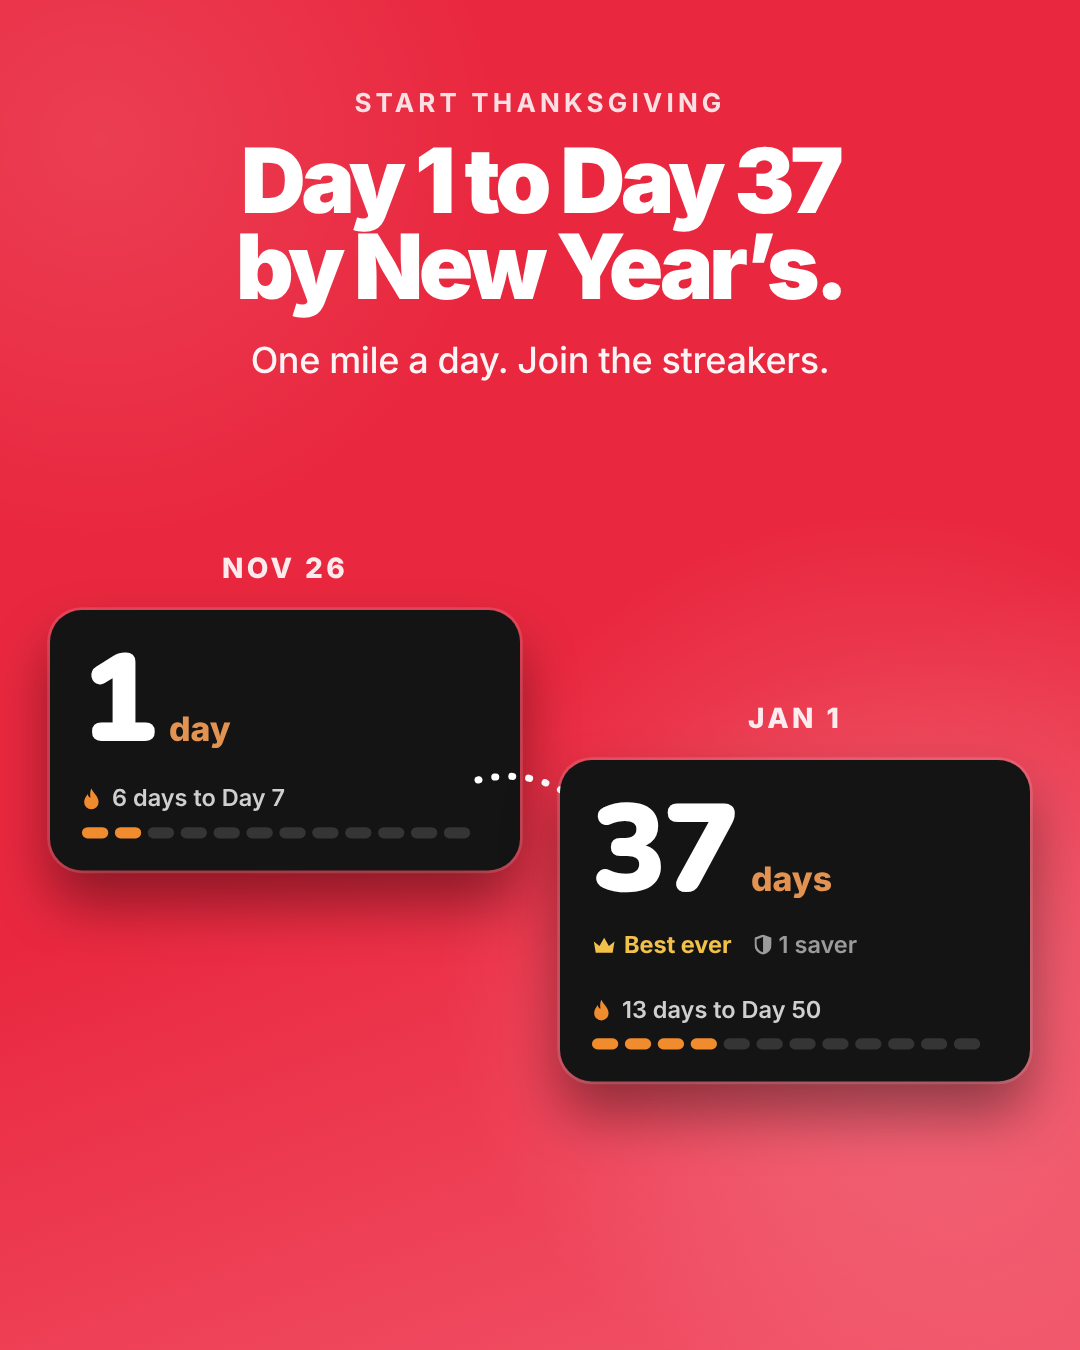
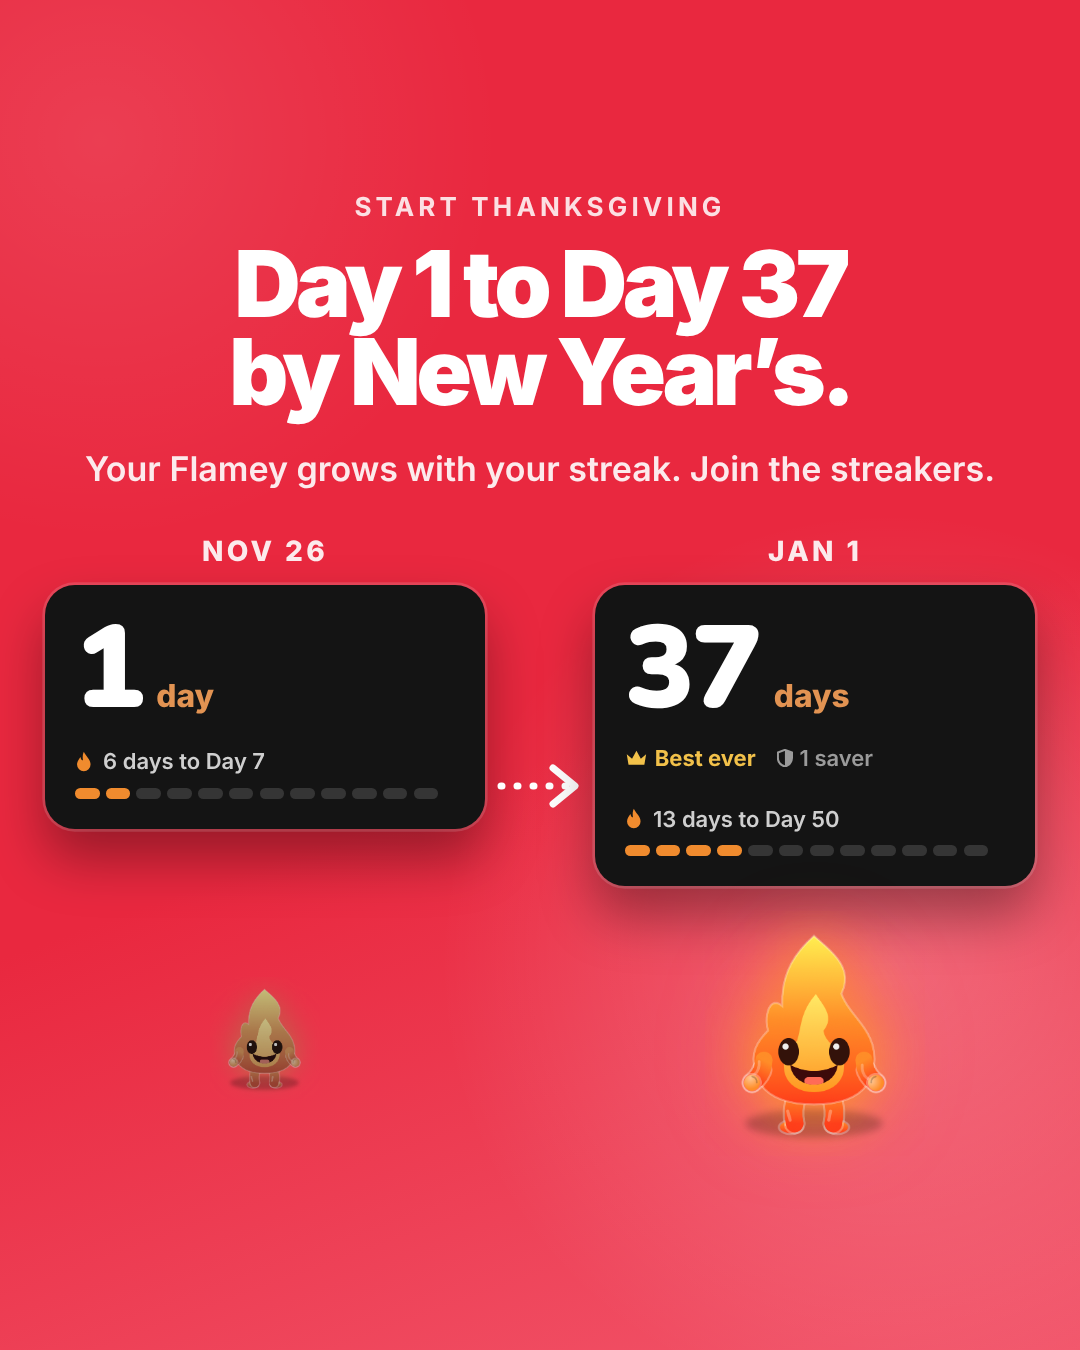
Centre the text-led ads and make Flamey the punchline
Each alternate is now one centred column with even spacing. Flamey peeks
over the streak card, grows from Day 1 to Day 37, and peeks out from
behind the Start your mile button.

Claude-Session: https://claude.ai/code/session_01Y9vwq5W5Nh2T9TYQcjQjGm

diff --git a/marketing/ads/holiday-2026/README.md b/marketing/ads/holiday-2026/README.md
@@ -28,12 +28,14 @@ Feed 1080×1350 (`*-feed.png`) and Stories/Reels 1080×1920 (`*-story.png`, text
 
 ### Alternates (no phone, text-led)
 
-Same rules, different shape, to test against the phone-layout ads above.
+Same rules, different shape, to test against the phone-layout ads above. Each is one centred column, and Flamey is
+the punchline: he peeks over the 37-day streak card, grows from a dim ember on Day 1 to a blaze on Day 37 (as he does
+in the app), and peeks out from behind the Start your mile button.
 
 | Ad | Primary text | Headline |
 |---|---|---|
 | `g-grateful` (cream note) | Family. Pie. A streak you're proud of. Walk or run one mile a day, starting Thanksgiving. Become a streaker. Free on iPhone. | Things I'm grateful for. |
-| `d-day1-37` (red, two streak cards) | Start Thursday and you're on day 37 by New Year's Day, one mile at a time. Join the streakers. Free on iPhone. | Day 1 to Day 37 by New Year's. |
+| `d-day1-37` (red, two streak cards) | Start Thursday and you're on day 37 by New Year's Day, one mile at a time. Your Flamey grows with your streak. Join the streakers. Free on iPhone. | Day 1 to Day 37 by New Year's. |
 | `t-todo` (amber, real Start your mile button) | Turkey: done. Pie: done. One mile: one tap away. Become a streaker. Free on iPhone. | Today's to-do list. |
 
 Social ads (friends with nudges and hypes, the locked feed, a competition leaderboard) come next in the same layout,
